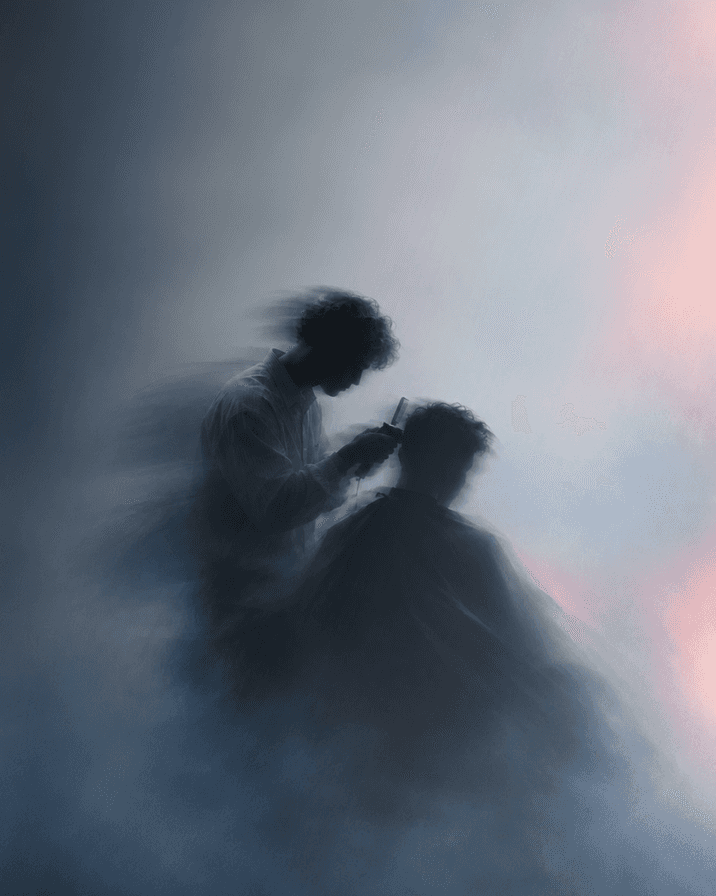
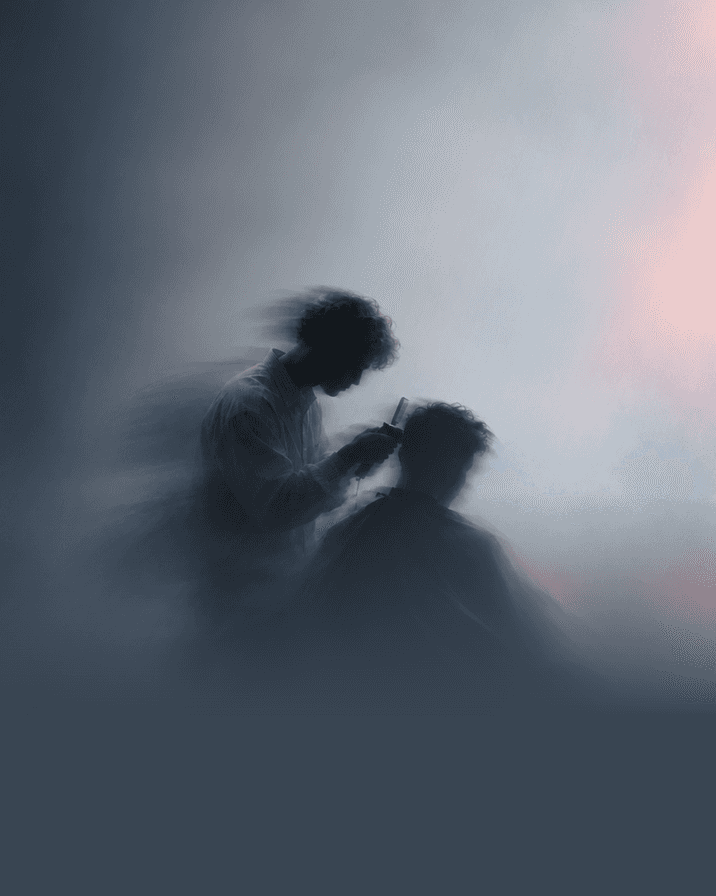
feat(wallet): Poster läuft unten in Apples Textstreifen aus; Wallet-Knopf in jedem Browser (signierter Link, Safari-Übergabe als Rückfall)

diff --git a/src/components/salon/screens/tabs/card.tsx b/src/components/salon/screens/tabs/card.tsx
@@ -1,7 +1,6 @@
 "use client";
 
-import { useMemo, useRef } from "react";
-import { copyText } from "@/lib/share";
+import { useMemo, useRef, useState } from "react";
 import { useSalon } from "../../store";
 import {
   salon,
@@ -39,7 +38,7 @@ function buildQR() {
 }
 
 export function CardTab() {
-  const { state, set, say } = useSalon();
+  const { state, set } = useSalon();
   const st = state;
   const U = st.user ?? {
     first: "Luca",
@@ -56,6 +55,21 @@ export function CardTab() {
   const T = tiers[ti];
   const cs = cardStyles[U.card] ?? cardStyles[0];
   const qr = useMemo(() => buildQR(), []);
+
+  // Wallet: the signed link works in any browser (no login cookie needed).
+  const passHref = st.walletToken
+    ? `/api/wallet/pass?t=${encodeURIComponent(st.walletToken)}`
+    : "/api/wallet/pass";
+  // iPhone browser other than Safari → also offer the hand-over to Safari.
+  // (The app tabs only render on the client, so navigator is there.)
+  const [otherBrowser] = useState(
+    () =>
+      typeof navigator !== "undefined" &&
+      /iPhone|iPad|iPod/.test(navigator.userAgent) &&
+      /CriOS|FxiOS|EdgiOS|OPiOS|GSA\/|Instagram|FBAN|FBAV|Line\/|DuckDuckGo|Snapchat|musical_ly/.test(
+        navigator.userAgent,
+      ),
+  );
 
   const hasAppt = !!st.appt;
   const d = st.appt ? dateOf(st.appt.off) : null;
@@ -554,27 +568,7 @@ export function CardTab() {
           Tippen zum Wenden
         </span>
         <a
-          href="/api/wallet/pass"
-          onClick={(e) => {
-            // Only Safari hands a pass straight to Wallet on iPhone; Chrome &
-            // in-app browsers save it as a download instead.
-            const ua = navigator.userAgent;
-            const iOS = /iPhone|iPad|iPod/.test(ua);
-            if (
-              iOS &&
-              /CriOS|FxiOS|EdgiOS|OPiOS|GSA\/|Instagram|FBAN|FBAV|Line\/|DuckDuckGo|Snapchat|musical_ly/.test(
-                ua,
-              )
-            ) {
-              e.preventDefault();
-              const url = window.location.origin + "/card";
-              say(
-                copyText(url)
-                  ? "Bitte in Safari öffnen – Link ist kopiert"
-                  : "Bitte salon15.ch in Safari öffnen",
-              );
-            }
-          }}
+          href={passHref}
           className="glass-dark"
           style={{
             height: 46,
@@ -593,6 +587,22 @@ export function CardTab() {
         >
           Zur Wallet hinzufügen
         </a>
+        {/* Chrome & in-app browsers: if they can't hand the pass to Wallet,
+            this opens the same signed link in Safari (no login needed) */}
+        {otherBrowser && (
+          <a
+            href={`x-safari-https://${window.location.host}${passHref}`}
+            style={{
+              fontSize: 11.5,
+              color: "var(--ink-60)",
+              textDecoration: "underline",
+              textUnderlineOffset: 3,
+              animation: "fade 1.6s ease .8s both",
+            }}
+          >
+            Klappt nicht? In Safari öffnen
+          </a>
+        )}
       </div>
     </div>
   );

diff --git a/src/app/api/wallet/pass/route.ts b/src/app/api/wallet/pass/route.ts
@@ -2,6 +2,7 @@
 // served as a .pkpass. On iOS, opening this URL shows the "Add to Wallet" sheet.
 // Backs the "Zur Wallet hinzufügen" button on the card tab.
 import { getSession } from "@/lib/auth/session";
+import { verifyWalletLinkToken } from "@/lib/wallet/link-token";
 import { isAppleWalletConfigured } from "@/lib/wallet/apple/config";
 import { buildMemberPass } from "@/lib/wallet/apple/pass";
 import { memberPassData } from "@/lib/wallet/member-pass";
@@ -20,8 +21,14 @@ function iosMajor(ua: string): number {
 }
 
 export async function GET(req: Request) {
+  // the member: logged-in session, or the signed link (?t=…) from the card
+  // button — that one works in any browser and when iOS hands it to Safari
   const s = await getSession();
-  if (!s || s.role !== "member") {
+  const linked = verifyWalletLinkToken(
+    new URL(req.url).searchParams.get("t") ?? "",
+  );
+  const mid = s?.role === "member" ? s.mid : linked;
+  if (!mid) {
     return Response.json({ ok: false, error: "forbidden" }, { status: 401 });
   }
 
@@ -33,7 +40,7 @@ export async function GET(req: Request) {
     );
   }
 
-  const data = await memberPassData(s.mid);
+  const data = await memberPassData(mid);
   if (!data) {
     return Response.json({ ok: false, error: "not_found" }, { status: 404 });
   }
@@ -43,7 +50,7 @@ export async function GET(req: Request) {
     // storeCard. Links point back to this deployment (salon15.ch).
     const poster = iosMajor(req.headers.get("user-agent") ?? "") >= 27;
     // background updates later get the same layout
-    await setPassLayout(s.mid, poster);
+    await setPassLayout(mid, poster);
     const buf = await buildMemberPass(data, {
       siteUrl: new URL(req.url).origin,
       poster,

diff --git a/src/lib/wallet/link-token.ts b/src/lib/wallet/link-token.ts
@@ -1,0 +1,29 @@
+// SERVER-ONLY: a signed, short-lived link to a member's Wallet pass. Lets the
+// "Zur Wallet" button work without the login cookie — in any browser and
+// when iOS hands the link over to Safari (which has no session of its own).
+import { createHmac, timingSafeEqual } from "node:crypto";
+
+const TTL_MS = 24 * 60 * 60 * 1000; // refreshed on every app load
+
+function sig(body: string): string {
+  return createHmac("sha256", process.env.SESSION_SECRET ?? "")
+    .update(`walletlink:${body}`)
+    .digest("base64url");
+}
+
+export function walletLinkToken(memberId: string): string {
+  const body = `${memberId}.${Date.now() + TTL_MS}`;
+  return `${Buffer.from(body).toString("base64url")}.${sig(body)}`;
+}
+
+/** The member id if the token is genuine and not expired, else null. */
+export function verifyWalletLinkToken(token: string): string | null {
+  const [b64, s] = token.split(".");
+  if (!b64 || !s) return null;
+  const body = Buffer.from(b64, "base64url").toString();
+  const a = Buffer.from(s);
+  const b = Buffer.from(sig(body));
+  if (a.length !== b.length || !timingSafeEqual(a, b)) return null;
+  const [mid, exp] = body.split(".");
+  return Number(exp) > Date.now() ? mid : null;
+}

diff --git a/src/lib/db/bundle.ts b/src/lib/db/bundle.ts
@@ -9,6 +9,7 @@ import {
   settlePastAppointments,
 } from "./appointments";
 import type { AppointmentRow, MemberRow } from "@/lib/supabase/types";
+import { walletLinkToken } from "@/lib/wallet/link-token";
 
 // Secrets and login bookkeeping never leave the server.
 export type PublicMember = Omit<
@@ -22,6 +23,7 @@ export type MemberBundle = {
   upcoming: AppointmentRow | null;
   history: AppointmentRow[];
   invitedByName: string | null; // display name of who invited this member
+  walletToken: string; // signed 24 h link to the Wallet pass (no cookie needed)
 };
 
 export function toPublicMember(m: MemberRow): PublicMember {
@@ -56,5 +58,6 @@ export async function loadMemberBundle(
     upcoming,
     history,
     invitedByName,
+    walletToken: walletLinkToken(member.id),
   };
 }

diff --git a/src/lib/wallet/apple/pass.ts b/src/lib/wallet/apple/pass.ts
@@ -95,7 +95,12 @@ export async function buildMemberPass(
       serialNumber: data.memberId,
       description: "Salon 15 Karte",
       sharingProhibited: true, // a personal membership card
-      backgroundColor: rgb(passColors[data.card] ?? passColors[0]),
+      // the photo's own tone: the poster's text strip / the storeCard around
+      // the strip take it, so they read as part of the picture
+      backgroundColor: rgb(
+        (opts.poster ? passColors.poster : passColors.strip)[data.card] ??
+          (opts.poster ? passColors.poster : passColors.strip)[0],
+      ),
       foregroundColor: rgb(design.text),
       labelColor: "rgb(200, 208, 218)", // the card's muted white
       // Wallet registers with our web service and fetches updates from it

diff --git a/src/lib/member-view.ts b/src/lib/member-view.ts
@@ -73,6 +73,7 @@ export type MemberStatePatch = {
   user: SalonUser;
   invites: Invite[];
   refCode: string; // the member's personal invite code
+  walletToken: string; // signed link to the Wallet pass
   template: ServiceKey[];
   myInviter: string;
   appt: Appt | null;
@@ -101,6 +102,7 @@ export function bundleToState(
     },
     invites: circleToInvites(b.circle),
     refCode: m.ref_code,
+    walletToken: b.walletToken,
     template: (m.template as ServiceKey[]) ?? ["haare", "bart"],
     myInviter: b.invitedByName ?? "",
     appt: apptFromRow(b.upcoming),

diff --git a/src/components/salon/store.tsx b/src/components/salon/store.tsx
@@ -124,6 +124,7 @@ export interface SalonState {
 
   // circle
   refCode: string; // the member's personal invite code (up to 5 people)
+  walletToken: string; // signed link to the Wallet pass (works without cookie)
   circleSel: string | null;
 
   // booking
@@ -239,6 +240,7 @@ function initialState(start?: StartConfig): SalonState {
     flipped: false,
     cut: "Mid",
     refCode: "",
+    walletToken: "",
     circleSel: null,
     slideDone: false,
     pay: "twint",
